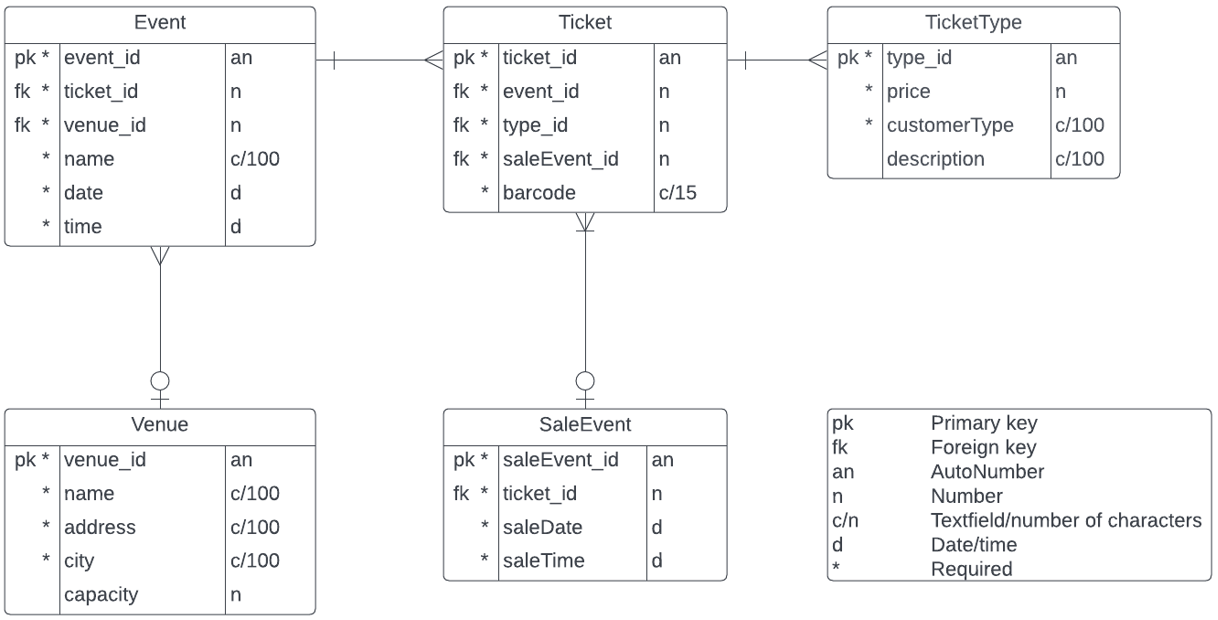
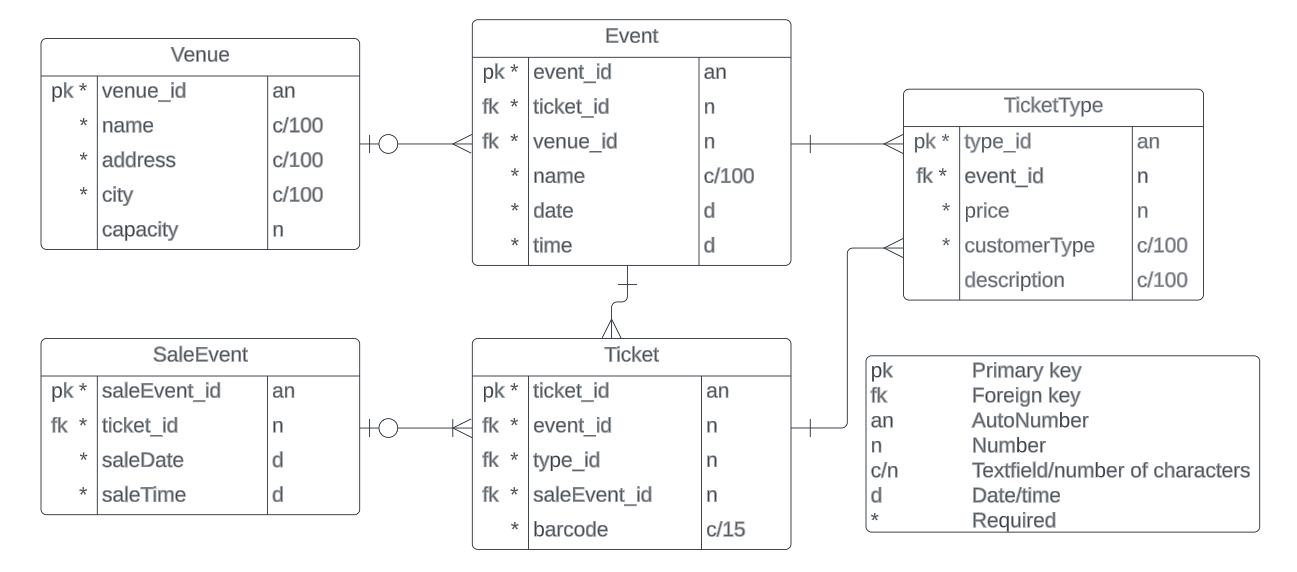
Tietokantadokumentaation korjaus

diff --git a/README.md b/README.md
@@ -69,8 +69,8 @@ Tietokannan taulut tietoineen on kuvattu alla olevassa kaaviossa. Kaavion ohessa
  | Kenttä      | Tyyppi       | Kuvaus                                                       |
  | ----------- | -----------  | ------------------------------------------------------------ |
  | event_id    | Long PK      | Tapahtuman id, not null                                      |
- | ticket_id   | int FK       | Tapahtuman lippu, viittaus Ticket-tauluun, not null          |
- | venue_id    | int FK	      | Tapahtuman tapahtumapaikka, viittaus Venue-tauluun, not null |
+ | ticket_id   | Long FK      | Tapahtuman lippu, viittaus Ticket-tauluun, not null          |
+ | venue_id    | Long FK	    | Tapahtuman tapahtumapaikka, viittaus Venue-tauluun, not null |
  | name        | varchar(100) | Tapahtuman nimi, not null                                    |
  | date        | dateTime     | Tapahtuman nimi, not null                                    |
  | time        | dateTime     | Tapahtuman nimi, not null                                    |
@@ -80,25 +80,26 @@ Tietokannan taulut tietoineen on kuvattu alla olevassa kaaviossa. Kaavion ohessa
  #### Ticket
  Ticket-taulun sisältönä on tapahtumaan myydyn lipun tiedot. Yksi lippu käy vain yhteen tapahtumaan. Tapahtumalle voi olla monta lippua.
 
- | Kenttä       | Tyyppi      | Kuvaus                                                             |
- | ------------ | ----------- | ------------------------------------------------------------------ |
- | ticket_id    | Long PK     | Lipun id, not null                                                 |
- | event_id     | int FK      | Id tapahtumalle, johon lippu on, viittaus Ticket-tauluun, not null |
- | type_id      | int FK	  | Lipputyypin id, viittaus TicketType-tauluun, not null              |
- | saleEvent_id | int FK	  | Myyntitapahtuman id, viittaus SaleEvent-tauluun, not null          |
- | barcode      | varchar(15) | Lipun yksilöllinen viivakoodi, not null                            |
+ | Kenttä       | Tyyppi      | Kuvaus                                                            |
+ | ------------ | ----------- | ----------------------------------------------------------------- |
+ | ticket_id    | Long PK     | Lipun id, not null                                                |
+ | event_id     | Long FK     | Id tapahtumalle, johon lippu on, viittaus Event-tauluun, not null |
+ | type_id      | Long FK	    | Lipputyypin id, viittaus TicketType-tauluun, not null             |
+ | saleEvent_id | Long FK	    | Myyntitapahtuman id, viittaus SaleEvent-tauluun, not null         |
+ | barcode      | varchar(15) | Lipun yksilöllinen viivakoodi, not null                           |
 
  ---
 
  #### TicketType
  TicketType-taulun sisältönä on lipputyyppien tiedot. Lipulle voidaan valita vain yksi lipputyyppi.
 
- | Kenttä       | Tyyppi       | Kuvaus                      |
- | ------------ | ------------ | --------------------------- |
- | type_id      | Long PK      | Lipputyypin id, not nul     |
- | price        | int          | Lipputyypin hinta, not null |
- | customerType | varchar(100) | Asiakastyyppi, not null     |
- | description  | varchar(100) | Lipputyypin kuvaus          |
+ | Kenttä       | Tyyppi       | Kuvaus                                                                  |
+ | ------------ | ------------ | ----------------------------------------------------------------------- |
+ | type_id      | Long PK      | Lipputyypin id, not null                                                |
+ | event_id     | Long FK      | Id tapahtumalle, johon lipputyyppi on, viittaus Event-tauluun, not null |
+ | price        | int          | Lipputyypin hinta, not null                                             |
+ | customerType | varchar(100) | Asiakastyyppi, not null                                                 |
+ | description  | varchar(100) | Lipputyypin kuvaus                                                      |
 
  ---
 
@@ -121,6 +122,6 @@ Tietokannan taulut tietoineen on kuvattu alla olevassa kaaviossa. Kaavion ohessa
  | Kenttä       | Tyyppi   | Kuvaus                                              |
  | ------------ | -------- | --------------------------------------------------- |
  | SaleEvent_id | Long PK  | Myyntitapahtuman id, not null                       |
- | ticket_id    | int FK   | Tapahtuman lippu, viittaus Ticket-tauluun, not null |
+ | ticket_id    | Long FK  | Tapahtuman lippu, viittaus Ticket-tauluun, not null |
  | saleDate     | dateTime | Myyntitapahtuman päiväys, not null                  |
  | saleTime     | dateTime | Myyntitapahtuman kellonaika, not null               |
